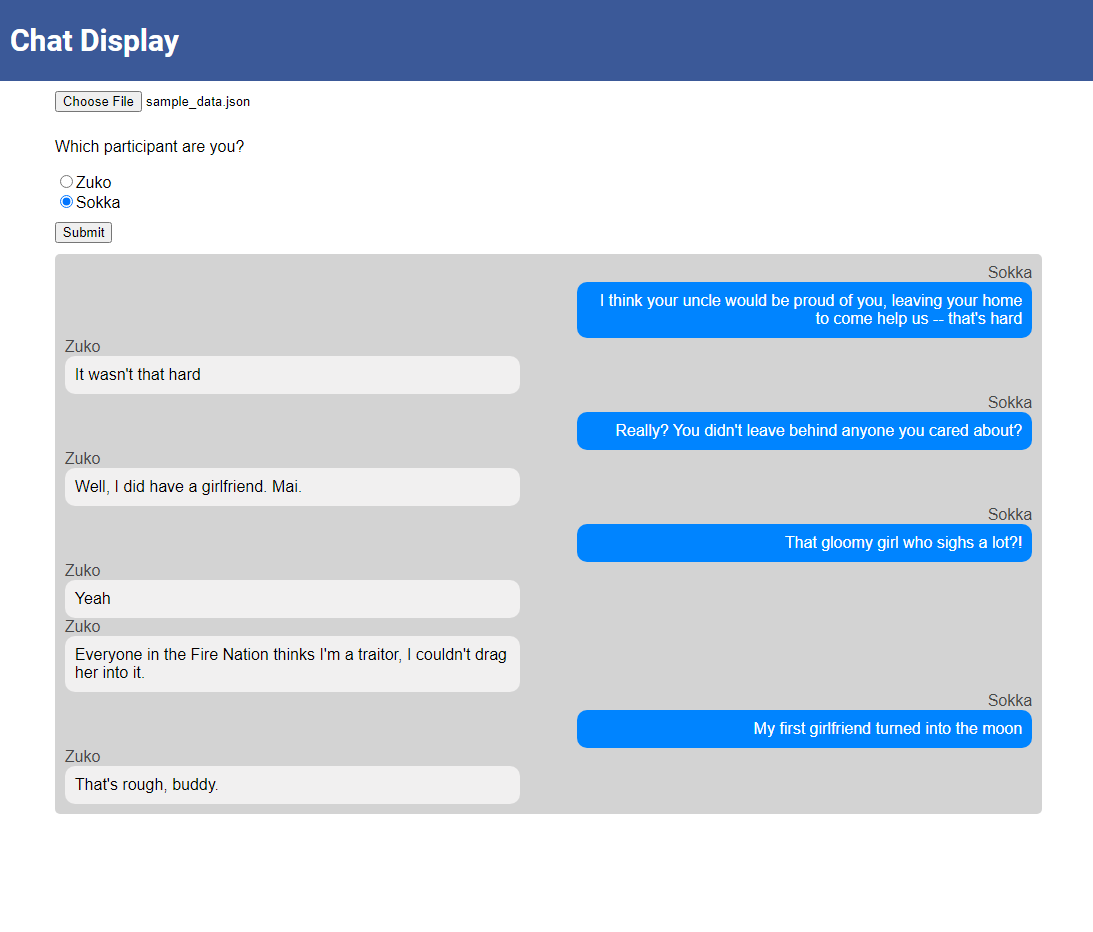
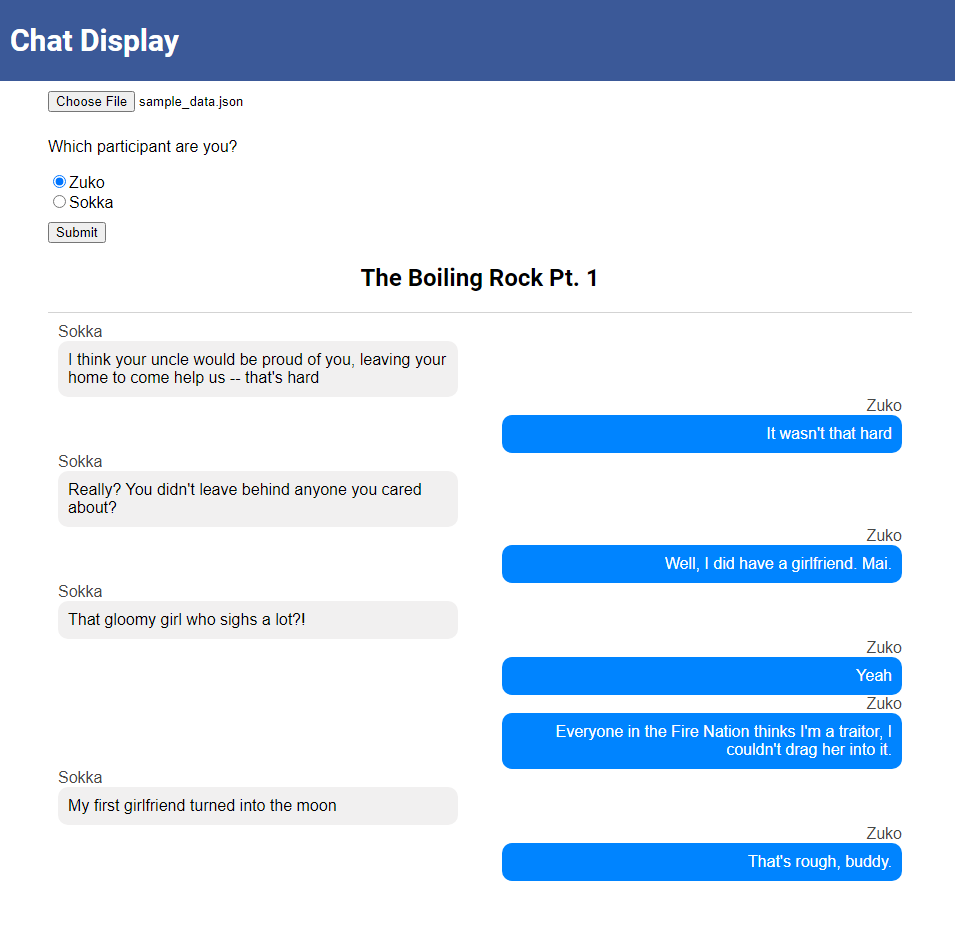
added chat title, timestamp tooltip

diff --git a/chat_viewer.js b/chat_viewer.js
@@ -20,6 +20,7 @@ function handleSubmit(){
   ReactDOM.render(e(ChatArea), document.querySelector('#chat-area'))
   const domChat = document.querySelector('#chat-display');
   ReactDOM.render(e(ChatBubble, cleanedData.msgs), domChat);
+  addChatTitle();
 }
 
 function readJSON(file) {
@@ -48,6 +49,11 @@ function cleanData(raw) {
   }
 
   return cleaned
+}
+
+function addChatTitle() {
+  const chatTitle = document.querySelector('#chat-title')
+  ReactDOM.render(e('h2', {}, cleanedData.title), chatTitle);
 }
 
 function promptParticipantRadio(participants){
@@ -89,7 +95,8 @@ class ChatBubble extends React.Component {
         e(
           'div', {className: "message-container"}, 
           e('div', {className: "name-right"}, msg.sender_name),
-          e('div', {className: "bubble-right"}, msg.content)
+          e('div', {className: "bubble-right"}, msg.content),
+          e('span', {className: "tooltip-right"}, timeConverter(msg.timestamp_ms))
         )
       );
     } else {
@@ -97,7 +104,8 @@ class ChatBubble extends React.Component {
         e(
           'div', {className: "message-container"}, 
           e('div', {className: "name-left"}, msg.sender_name),
-          e('div', {className: "bubble-left"}, msg.content)
+          e('div', {className: "bubble-left"}, msg.content),
+          e('span', {className: "tooltip-left"}, timeConverter(msg.timestamp_ms))
         )
       );
     }
@@ -110,7 +118,6 @@ class ChatBubble extends React.Component {
   }
 }
 
-
 class ChatArea extends React.Component {
   render() {
     return (
@@ -120,3 +127,15 @@ class ChatArea extends React.Component {
   }
 }
 
+function timeConverter(UNIX_timestamp){
+  var a = new Date(UNIX_timestamp);
+  var months = ['Jan','Feb','Mar','Apr','May','Jun','Jul','Aug','Sep','Oct','Nov','Dec'];
+  var year = a.getFullYear();
+  var month = months[a.getMonth()];
+  var date = a.getDate();
+  var hour = a.getHours();
+  var min = a.getMinutes() < 10 ? '0' + a.getMinutes() : a.getMinutes();
+  var sec = a.getSeconds() < 10 ? '0' + a.getSeconds() : a.getSeconds();
+  var time = date + ' ' + month + ' ' + year + ' ' + hour + ':' + min + ':' + sec ;
+  return time;
+}

diff --git a/chat_display.css b/chat_display.css
@@ -1,6 +1,10 @@
 h1 {
     font-family: 'Roboto', sans-serif;
 }
+h2 {
+    font-family: 'Roboto', sans-serif;
+    text-align: center;
+}
 button {
     margin-top: 10px;
     margin-left: 5%;
@@ -25,10 +29,10 @@ p, label {
     margin-left: 5%;
 }
 #chat-display {
-    background-color: lightgrey;
-    border-radius: 5px;
+    border-top: solid;
+    border-color: lightgrey;
+    border-width: 1px;
     padding: 10px;
-    align-items: right;
     margin-top: 1%;
     margin-left: 5%;
     margin-right: 5%;
@@ -41,6 +45,46 @@ p, label {
     overflow:auto;
 
 }
+.message-container .tooltip-right {
+    font-family: sans-serif;
+    visibility: hidden;
+    width: auto;
+    background-color: rgba(0,0,0,0.7);
+    color: #fff;
+    text-align: center;
+    padding: 5px 10px;
+    border-radius: 6px;
+   
+    position: absolute;
+    z-index: 1;
+    right: 40%;
+
+}
+
+.message-container .tooltip-left {
+    font-family: sans-serif;
+    visibility: hidden;
+    width: auto;
+    background-color: rgba(0,0,0,0.7);
+    color: #fff;
+    text-align: center;
+    padding: 5px 10px;
+    border-radius: 6px;
+   
+    position: absolute;
+    z-index: 1;
+    left: 40%
+
+}
+
+.message-container:hover .tooltip-left {
+    visibility: visible;
+}
+.message-container:hover .tooltip-right {
+    visibility: visible;
+}
+
+
 .bubble-right {
     font-family: sans-serif;
     background-color:#0084FF;

diff --git a/chat_display.html b/chat_display.html
@@ -14,6 +14,7 @@
         <div id="participants-radio"></div>
         <div id="submit-button"></div>
         
+        <div id="chat-title"></div>
         <div id="chat-area">
         </div>
 
@@ -23,7 +24,8 @@
         <!-- Note: when deploying, replace "development.js" with "production.min.js". -->
         <script src="https://unpkg.com/react@16/umd/react.development.js" crossorigin></script>
         <script src="https://unpkg.com/react-dom@16/umd/react-dom.development.js" crossorigin></script>
-        <script src="chat_bubbles.js" type="text/javascript"></script>
+        <script src="chat_viewer.js" type="text/javascript"></script>
+
 
 
     </body>

diff --git a/README.md b/README.md
@@ -9,6 +9,10 @@ Using this Facebook Messenger JSON viewer, it looks much better:
 ![viewer](viewer.png)
 
 ## How to use
+
+Here's a quick demo:
+![demo](demo.gif)
+
 ### Step 1.
 #### Method 1
 I have this tool [hosted on my website](https://simonwong.io/fb_chat_viewer/). You can select your JSON files and all the data will be processed client-side so you don't have to worry about me reading your chats 😁
@@ -28,7 +32,7 @@ Voilà, your chats can now be easily read.
 ## Ideas / TODO
 * Do some advanced searching/filtering on the chat data in JSON format using my [Facebook Messenger tool](https://github.com/simonwongwong/Facebook-Messenger-Statistics/) and then view the messages using this viewer
 * Add a slider or calendar picker to filter dates in the chat (not supported by Facebook Messenger unless you want to spend hours scrolling and loading).
-* Add tooltip to show timestamps of messages
+* ~~Add tooltip to show timestamps of messages~~
 * Functionality for viewing images/files sent in chat
 
 ## Bugs
